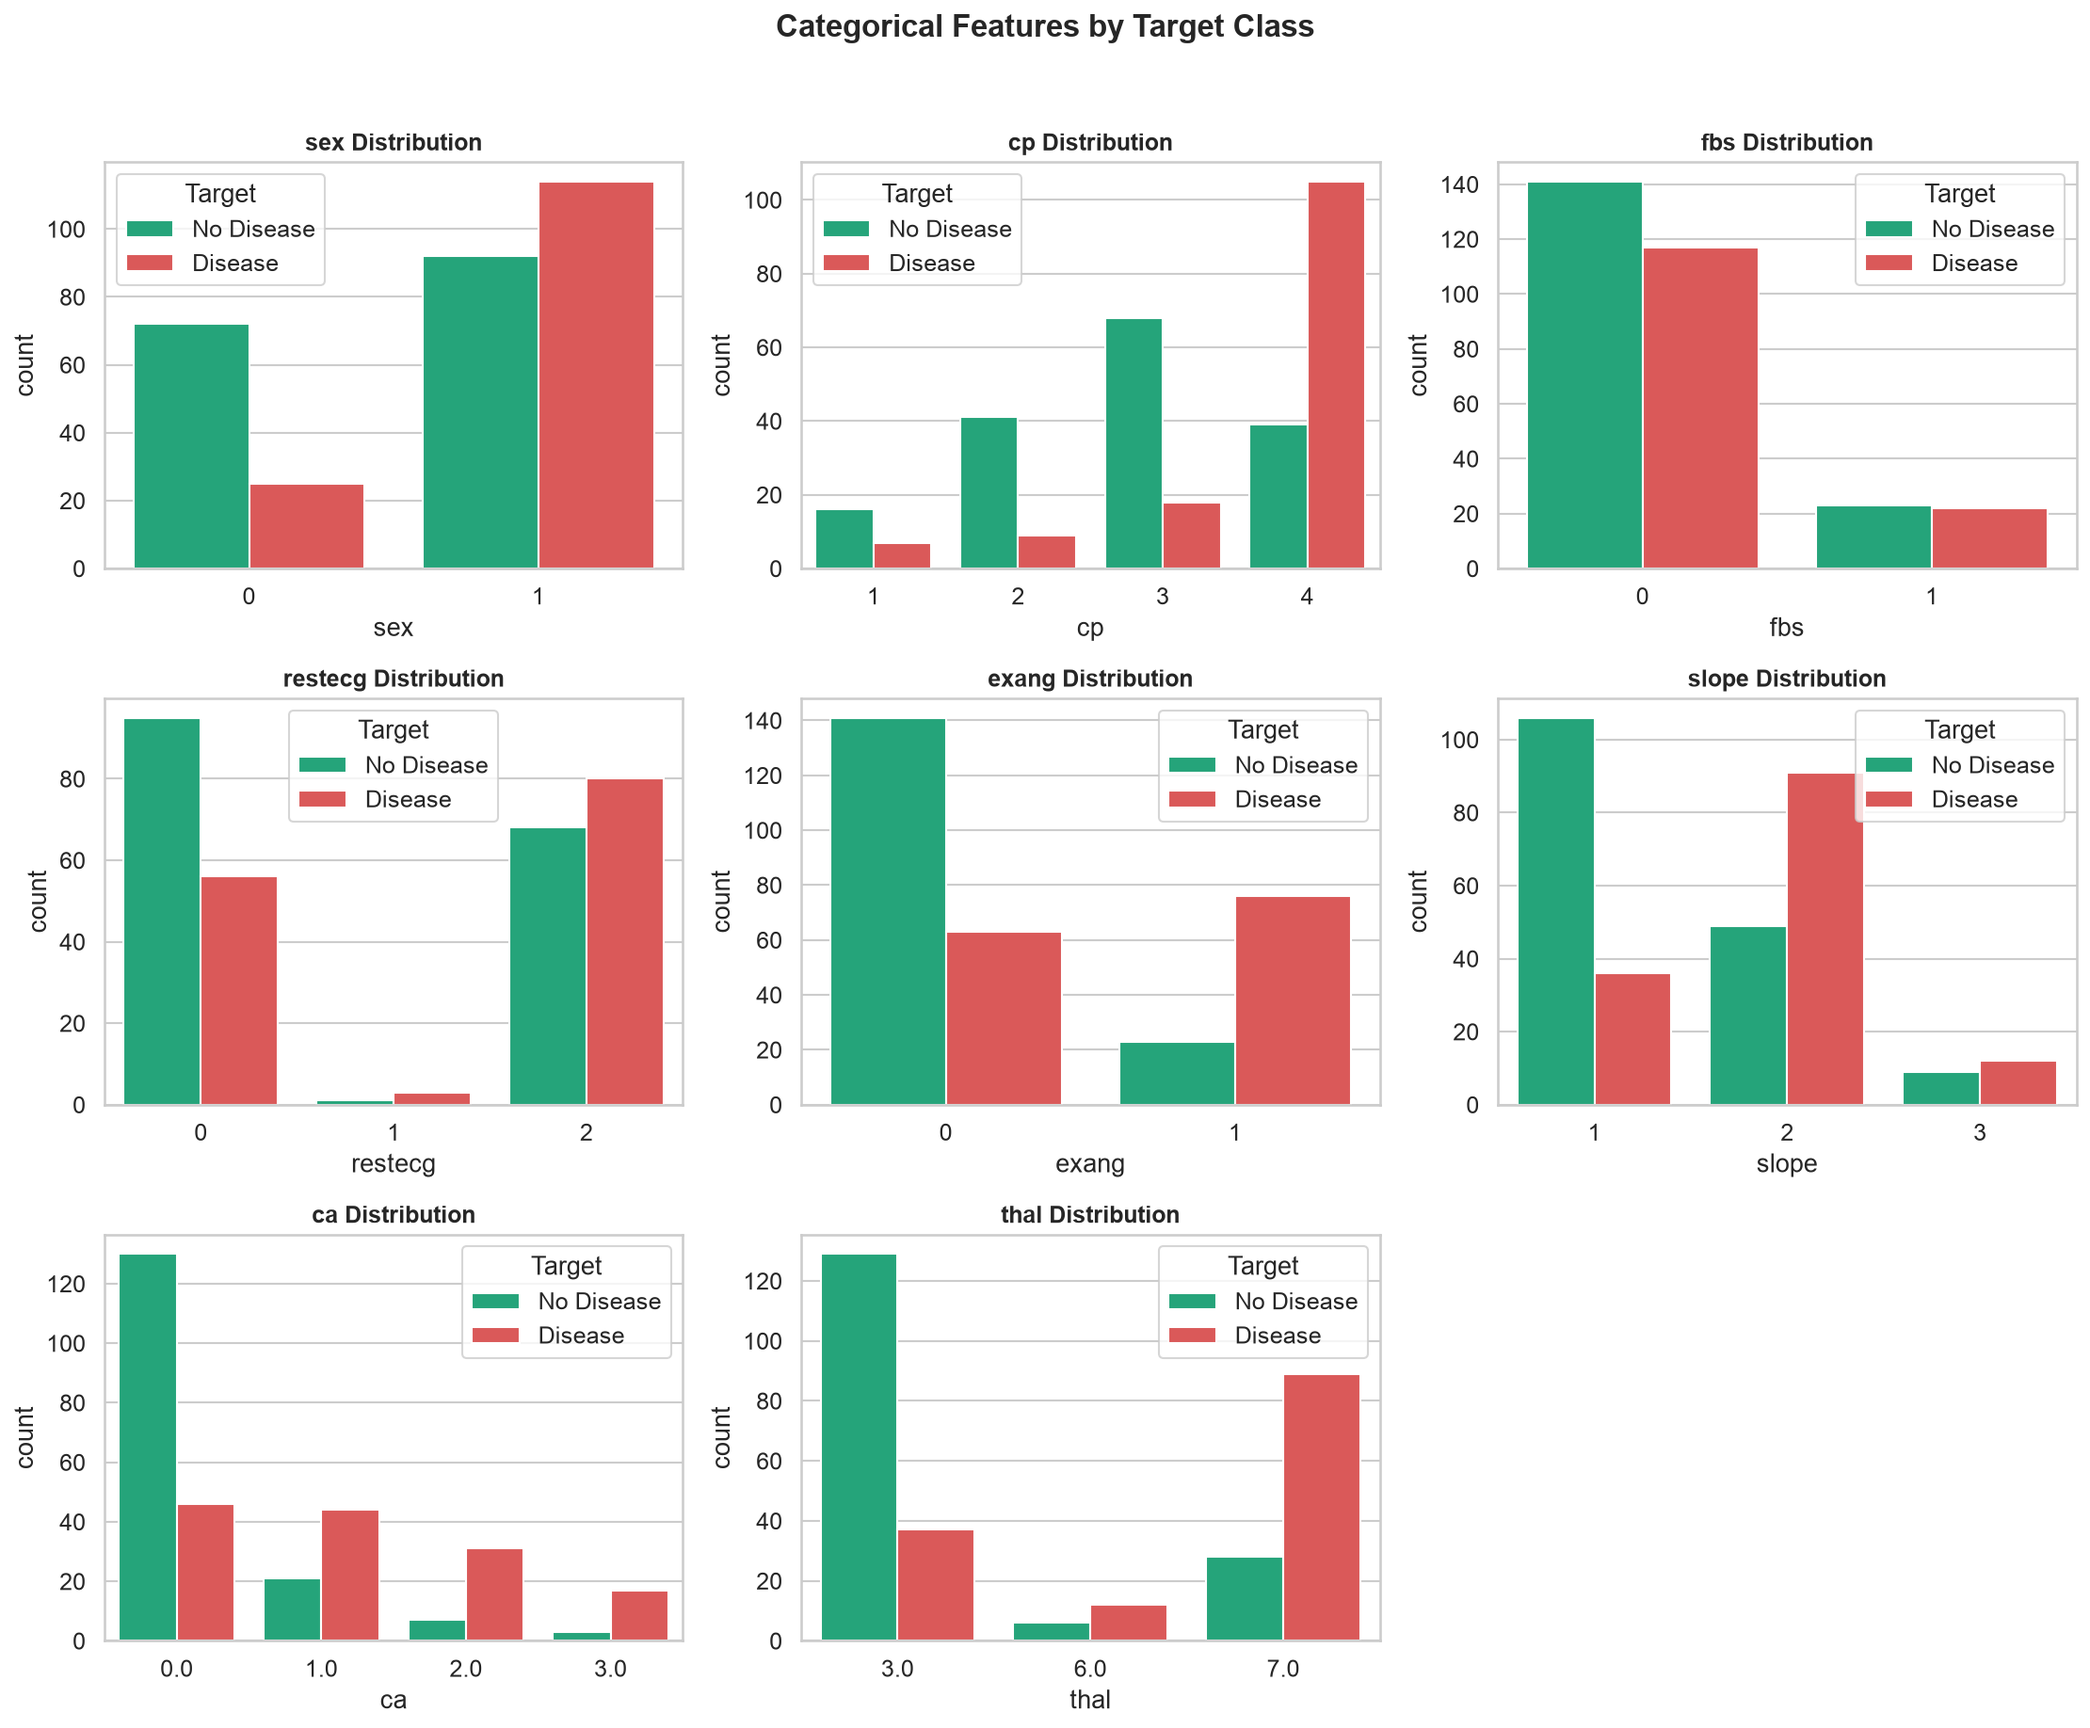
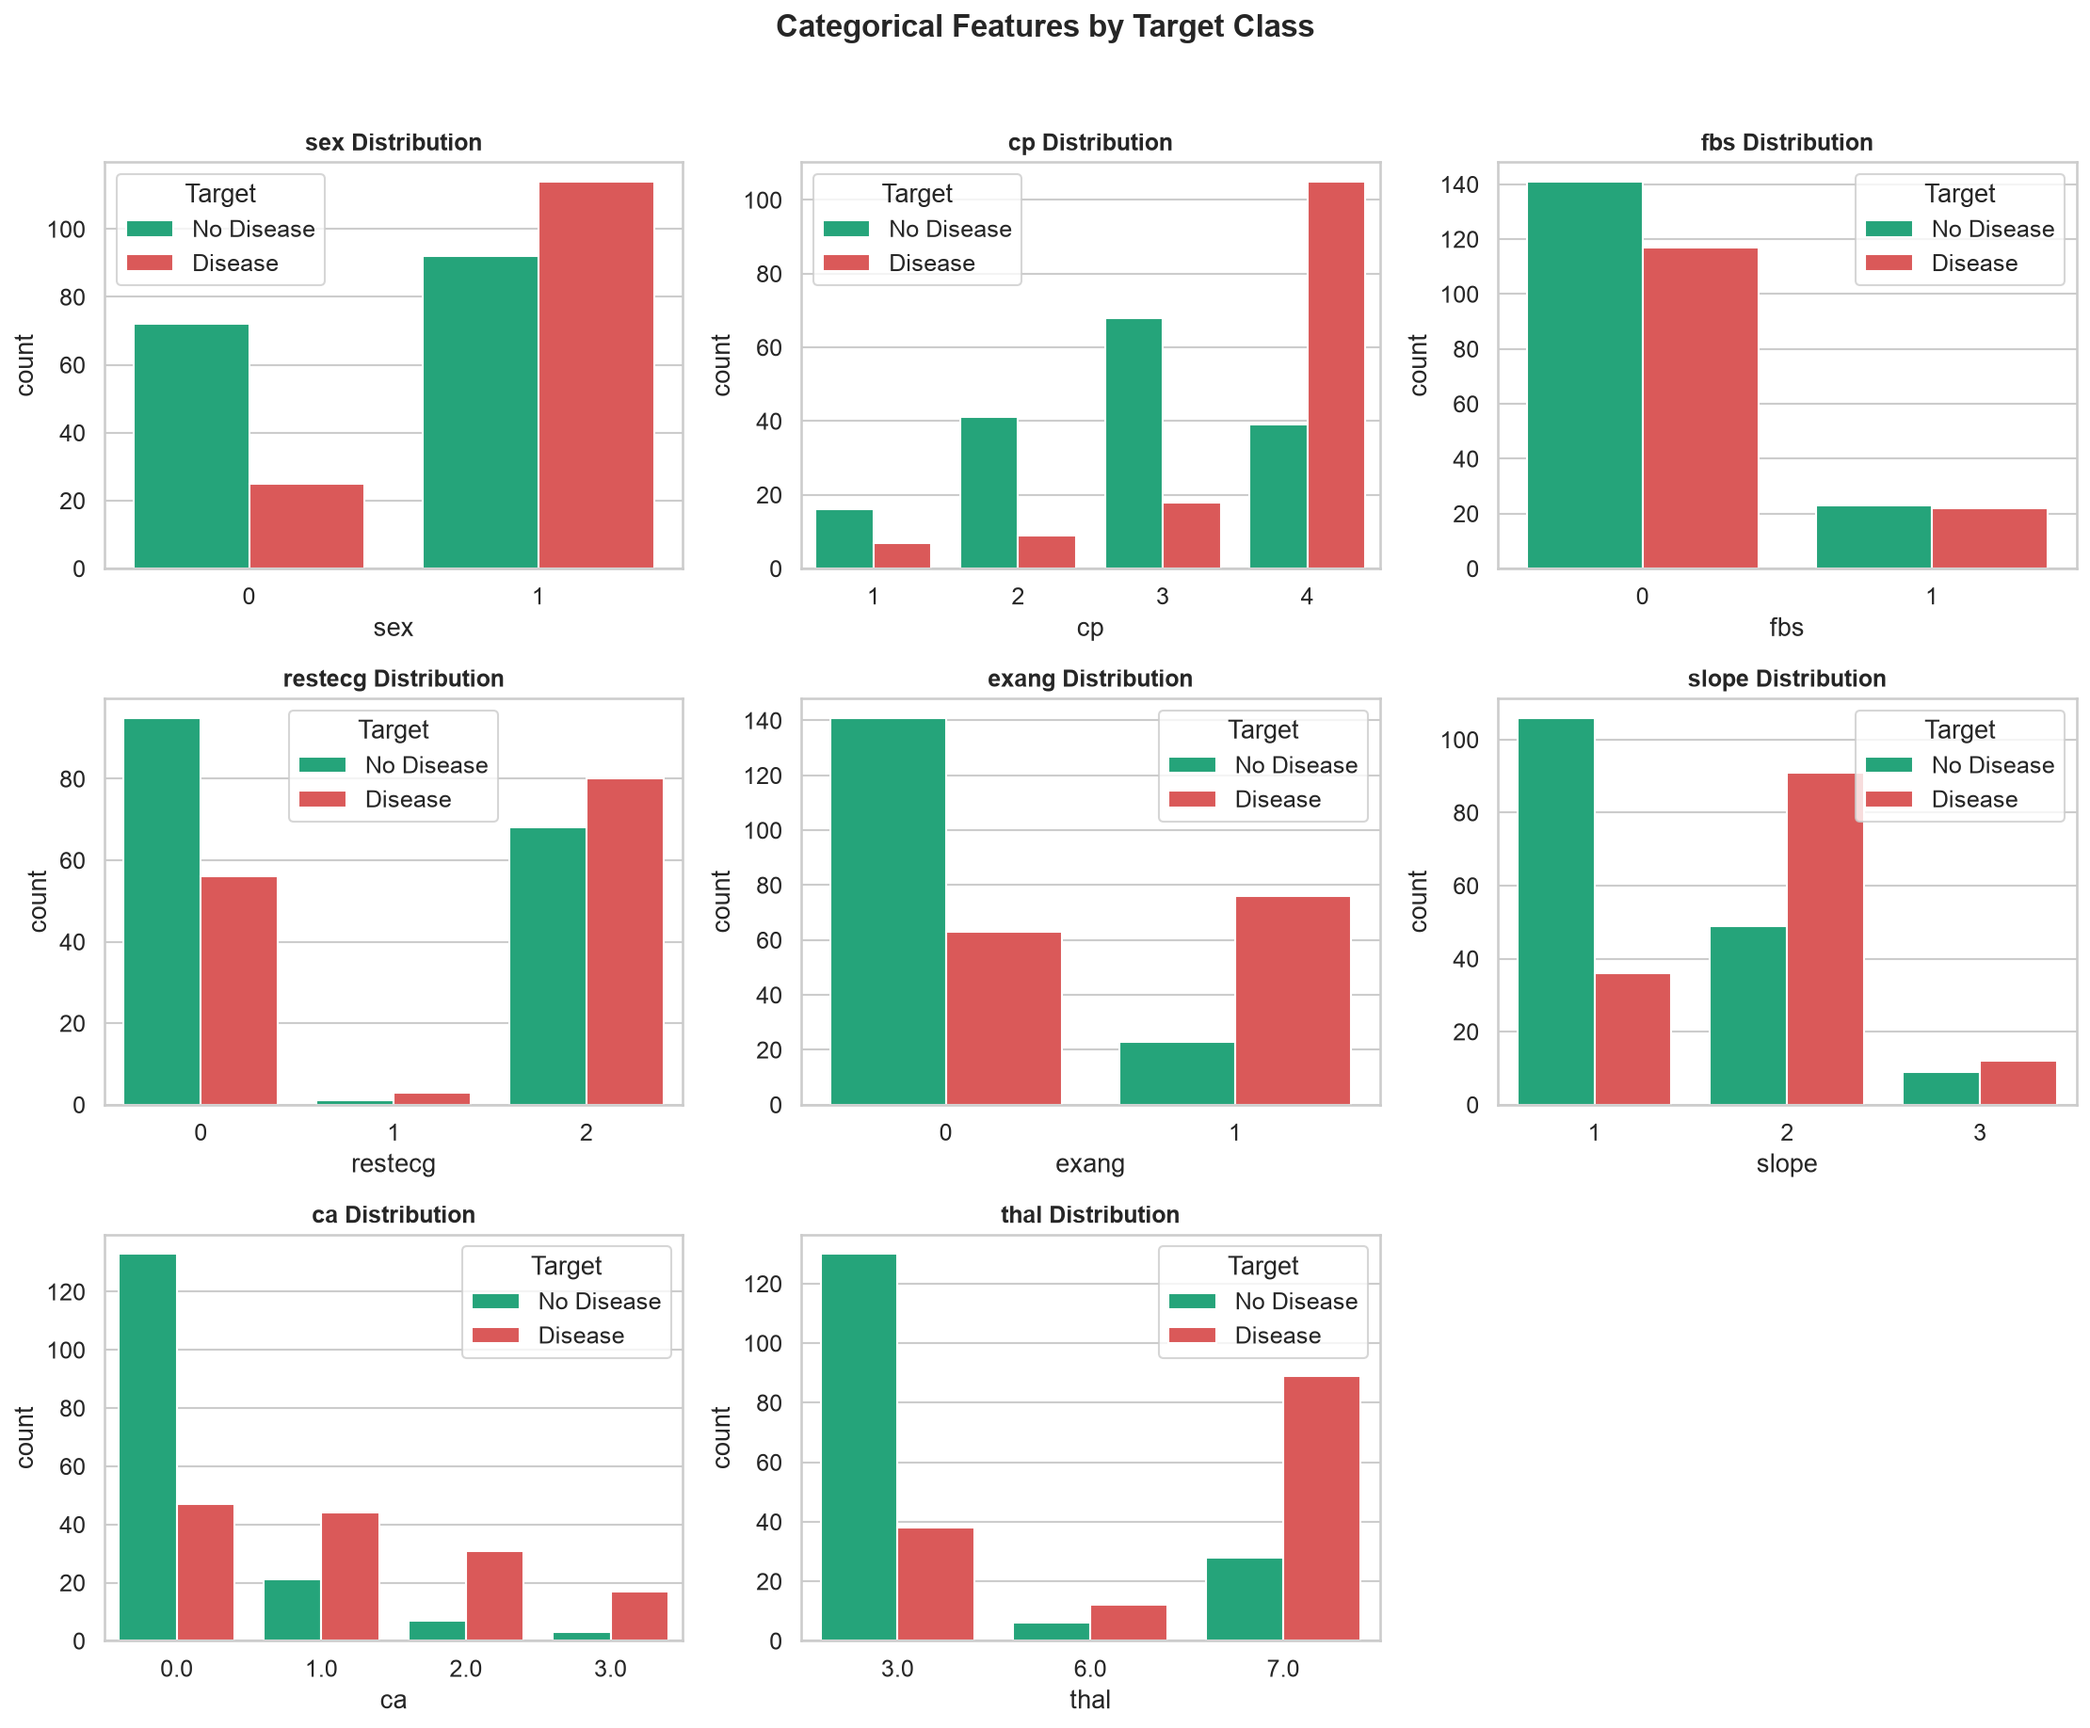
feat(mlflow): register champion model in MLflow Model Registry and add dedicated Champion Model run

Changed region(s): [[0.2176, 0.8693, 0.2486, 0.9003]]

diff --git a/main.py b/main.py
@@ -1,17 +1,17 @@
 """
 Heart Disease Prediction — End-to-End MLOps Pipeline Orchestrator.
 
-One-line entry point to execute the complete workflow:
-1. Data Acquisition (download dataset)
-2. Exploratory Data Analysis (generate visualizations)
+Complete, uninterrupted workflow execution:
+1. Data Acquisition (download dataset & preprocess)
+2. Exploratory Data Analysis (generate all visualizations)
 3. Feature Engineering & Model Training (MLflow tracking + model packaging)
-4. Automated Testing (pytest unit test suite)
+4. Code Quality & Linting (flake8 PEP8 verification)
+5. Automated Testing (full pytest unit test suite & coverage)
 
 Usage:
-    python main.py                  # Run full pipeline
-    python main.py --skip-eda       # Skip EDA plot generation
-    python main.py --skip-tests     # Skip running pytest
-    python main.py --serve          # Start API server after pipeline completion
+    python main.py                  # Run complete pipeline
+    python main.py --serve          # Run complete pipeline then start FastAPI server
+    python main.py --mlflow         # Run complete pipeline then start MLflow UI
 """
 
 import sys
@@ -41,18 +41,16 @@ def run_command(cmd, stage_name):
 
 def main():
     parser = argparse.ArgumentParser(
-        description="End-to-End MLOps Pipeline Orchestrator",
+        description="End-to-End MLOps Pipeline Orchestrator (Full Execution)",
         formatter_class=argparse.ArgumentDefaultsHelpFormatter,
     )
-    parser.add_argument("--skip-eda", action="store_true", help="Skip EDA visualization generation")
-    parser.add_argument("--skip-tests", action="store_true", help="Skip running pytest unit tests")
     parser.add_argument("--serve", action="store_true", help="Launch FastAPI server after pipeline finishes")
     parser.add_argument("--mlflow", action="store_true", help="Launch MLflow UI dashboard after pipeline finishes")
     args = parser.parse_args()
 
     pipeline_start = time.time()
     print("\n" + "█" * 65)
-    print("  STARTING END-TO-END MLOps PIPELINE")
+    print("  STARTING END-TO-END MLOps PIPELINE (FULL EXECUTION)")
     print("█" * 65)
 
     step = 1
@@ -62,29 +60,35 @@ def main():
     run_command([sys.executable, "data/download_data.py"], "Data Download")
     step += 1
 
-    # Stage 2: Exploratory Data Analysis (optional)
-    if not args.skip_eda:
-        print_banner(step, "Exploratory Data Analysis (Visualizations)")
-        run_command([sys.executable, "src/eda.py"], "EDA Generation")
-        step += 1
-    else:
-        print("[INFO] Skipping EDA generation (--skip-eda)")
+    # Stage 2: Exploratory Data Analysis
+    print_banner(step, "Exploratory Data Analysis (Generate Visualizations)")
+    run_command([sys.executable, "src/eda.py"], "EDA Generation")
+    step += 1
 
     # Stage 3: Feature Engineering, Model Training & Packaging
     print_banner(step, "Feature Engineering, Model Training & MLflow Tracking")
     run_command([sys.executable, "src/train.py"], "Model Training & Packaging")
     step += 1
 
-    # Stage 4: Automated Testing (optional)
-    if not args.skip_tests:
-        print_banner(step, "Automated Testing (Pytest Suite & Coverage)")
-        run_command(
-            [sys.executable, "-m", "pytest", "tests/", "-v", "--tb=short", "--cov=src", "--cov-report=term-missing"],
-            "Unit Tests",
-        )
-        step += 1
-    else:
-        print("[INFO] Skipping unit tests (--skip-tests)")
+    # Stage 4: Code Quality & Linting
+    print_banner(step, "Code Quality & Linting (flake8)")
+    run_command(
+        [
+            sys.executable, "-m", "flake8", "src/", "app.py", "tests/",
+            "--max-line-length=120", "--statistics", "--count",
+            "--ignore=E501,W503,E203,W293,E402",
+        ],
+        "Code Linting",
+    )
+    step += 1
+
+    # Stage 5: Automated Testing
+    print_banner(step, "Automated Testing (Pytest Suite & Coverage)")
+    run_command(
+        [sys.executable, "-m", "pytest", "tests/", "-v", "--tb=short", "--cov=src", "--cov-report=term-missing"],
+        "Unit Tests",
+    )
+    step += 1
 
     total_time = time.time() - pipeline_start
     print("█" * 65)

diff --git a/src/train.py b/src/train.py
@@ -481,25 +481,44 @@ def main():
         best_result["model"], preprocessor, best_name
     )
     
-    # Log best model selection to MLflow
-    with mlflow.start_run(run_name="Best Model Selection"):
+    # ── Log Champion Model & Register in MLflow Model Registry ──
+    run_name = f"Champion Model — {best_name}"
+    print(f"\n[STEP 7] Logging and registering {run_name} in MLflow Model Registry...")
+    with mlflow.start_run(run_name=run_name):
         mlflow.set_tag("mlflow.user", "Zeel")
         mlflow.set_tag("user_id", "Zeel")
         mlflow.set_tag("author", "Zeel Patel")
-        mlflow.log_param("best_model", best_name)
+        mlflow.set_tag("model_status", "Champion")
+        mlflow.set_tag("is_champion", "True")
+        mlflow.set_tag("champion_model_name", best_name)
+        mlflow.log_param("champion_algorithm", best_name)
+        mlflow.log_params(best_result["params"])
+
         for metric, value in best_result["test_metrics"].items():
-            mlflow.log_metric(f"best_{metric}", value)
+            mlflow.log_metric(f"champion_{metric}", value)
+            mlflow.log_metric(f"test_{metric}", value)
+
+        for metric, vals in best_result["cv_results"].items():
+            mlflow.log_metric(f"champion_cv_{metric}_mean", vals["mean"])
+
         try:
+            # Register in MLflow Model Registry
+            mlflow.sklearn.log_model(
+                sk_model=best_result["model"],
+                artifact_path="model",
+                registered_model_name="heart-disease-champion",
+            )
             mlflow.log_artifact(model_path)
             mlflow.log_artifact(pipeline_path)
             mlflow.log_artifact(comparison_path)
-            
+
             # Log requirements.txt for reproducibility
             req_path = os.path.join(PROJECT_ROOT, "requirements.txt")
             if os.path.exists(req_path):
                 mlflow.log_artifact(req_path)
+            print("  [SUCCESS] Champion model registered in MLflow Model Registry as 'heart-disease-champion'")
         except Exception as e:
-            print(f"  [INFO] Remote artifact upload notice: {e}")
+            print(f"  [INFO] Remote artifact/registry notice: {e}")
     
     # ── Summary ──
     print(f"\n{'=' * 60}")

diff --git a/project-report.md b/project-report.md
@@ -76,8 +76,9 @@ Implemented in [`src/data_preprocessing.py`](src/data_preprocessing.py):
    - Given the small percentage (<2%) and discrete categorical nature, both features were imputed using their statistical mode (`ca_mode = 0.0`, `thal_mode = 3.0`) avoiding data loss from deletion.
 3. **Target Binarization**:
    - Original dataset targets range from `0` (absence) to `1, 2, 3, 4` (various stages of heart disease).
-   - Following clinical standards and assignment requirements, the target was binarized:
-     $$\text{Target} = \begin{cases} 0 & \text{if } num = 0 \text{ (No Disease, } 164 \text{ samples, } 54.1\% \text{)} \\ 1 & \text{if } num > 0 \text{ (Disease Present, } 139 \text{ samples, } 45.9\% \text{)} \end{cases}$$
+   - Following clinical standards and assignment requirements, the target was binarized into two clear classes:
+     - **Class 0 (No Disease)**: when `num == 0` (164 samples, 54.1%)
+     - **Class 1 (Disease Present)**: when `num > 0` (139 samples, 45.9%)
    - **Class Balance**: The dataset is balanced (54.1% vs 45.9%), eliminating the need for synthetic oversampling (e.g., SMOTE) while motivating the use of stratified sampling for train-test splitting and cross-validation.
 
 ### 3.3 EDA Visualizations & Clinical Insights
@@ -260,9 +261,9 @@ Stored under [`k8s/`](k8s/):
 - **`k8s/deployment.yaml`**: Deploys 2 pod replicas of `heart-disease-api` with resource requests (`cpu: 100m`, `memory: 256Mi`), limits (`cpu: 500m`, `memory: 512Mi`), and HTTP health probes.
 - **`k8s/hpa.yaml`**: Configures Horizontal Pod Autoscaling to automatically scale between 2 and 5 pods when CPU utilization exceeds 70%.
 - **`k8s/gateway.yaml`**: Deploys an NGINX reverse-proxy LoadBalancer routing:
-  - Port `80` $\rightarrow$ `heart-disease-api-service:80`
-  - Port `3000` $\rightarrow$ `grafana-service:3000`
-  - Port `5000` $\rightarrow$ `mlflow-service:5000`
+  - Port `80` → `heart-disease-api-service:80`
+  - Port `3000` → `grafana-service:3000`
+  - Port `5000` → `mlflow-service:5000`
 - **`k8s/monitoring-prometheus.yaml`**: Deploys Prometheus with automated scraping of the API service every 5 seconds.
 - **`k8s/monitoring-grafana.yaml`**: Deploys Grafana with auto-provisioned Prometheus datasource and MLOps dashboard definitions.
 - **`k8s/mlflow.yaml`**: Deploys the MLflow tracking server on AKS.
